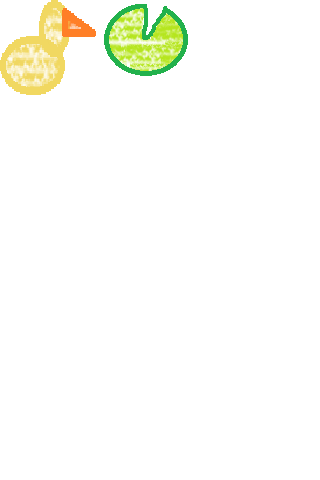
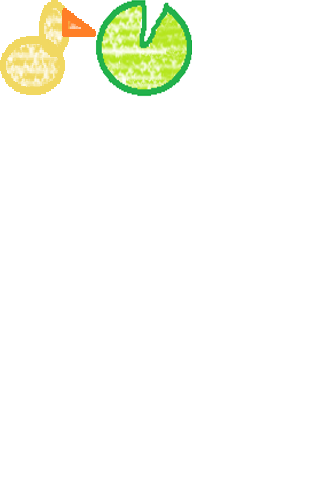
Added the lillypad
Still need collision detection

Changed region(s): [[0.2812, 0.0, 0.625, 0.2188]]

diff --git a/core/src/com/fworg64/duckpond/game/GameScreen.java b/core/src/com/fworg64/duckpond/game/GameScreen.java
@@ -23,6 +23,7 @@ public class GameScreen extends ScreenAdapter
     float clock;
 
     public Duck fred;
+    public Lily laura;
 
     public boolean beingswiped; //swiperfile?
     public Vector2 swipestart;
@@ -39,6 +40,7 @@ public class GameScreen extends ScreenAdapter
         clock =0;
 
         fred = new Duck();
+        laura = new Lily();
         beingswiped = false;
         swipestart = new Vector2();
         swipeend = new Vector2();
@@ -74,6 +76,7 @@ public class GameScreen extends ScreenAdapter
         }
 
         fred.update(delta);
+        laura.update();
 
 
     }
@@ -93,6 +96,7 @@ public class GameScreen extends ScreenAdapter
 
         game.batch.enableBlending();
         game.batch.begin();
+        game.batch.draw(Assets.lily, laura.pos.getX(), laura.pos.getY());
         game.batch.draw(Assets.duck, fred.pos.getX(), fred.pos.getY());
         game.batch.end();
 

diff --git a/core/src/com/fworg64/duckpond/game/Assets.java b/core/src/com/fworg64/duckpond/game/Assets.java
@@ -21,6 +21,7 @@ public class Assets
 
     public static Texture objects;
     public static TextureRegion duck; //make array once we have some animation frames
+    public static TextureRegion lily;
 
 
 
@@ -39,5 +40,6 @@ public class Assets
         objects = new Texture(Gdx.files.internal("actors.png"));
 
         duck = new TextureRegion(objects, 96,96);
+        lily = new TextureRegion(objects,96,0,192,96);
     }
 }

diff --git a/core/src/com/fworg64/duckpond/game/Lily.java b/core/src/com/fworg64/duckpond/game/Lily.java
@@ -1,0 +1,21 @@
+package com.fworg64.duckpond.game;
+
+import com.badlogic.gdx.math.Rectangle;
+
+/**
+ * Created by fworg on 2/10/2016.
+ */
+public class Lily
+{
+    Rectangle pos;
+
+    public Lily()
+    {
+        pos = new Rectangle(160, 360, 96, 96);
+    }
+
+    public void update()
+    {
+        //stuff to determine frame of animation
+    }
+}
